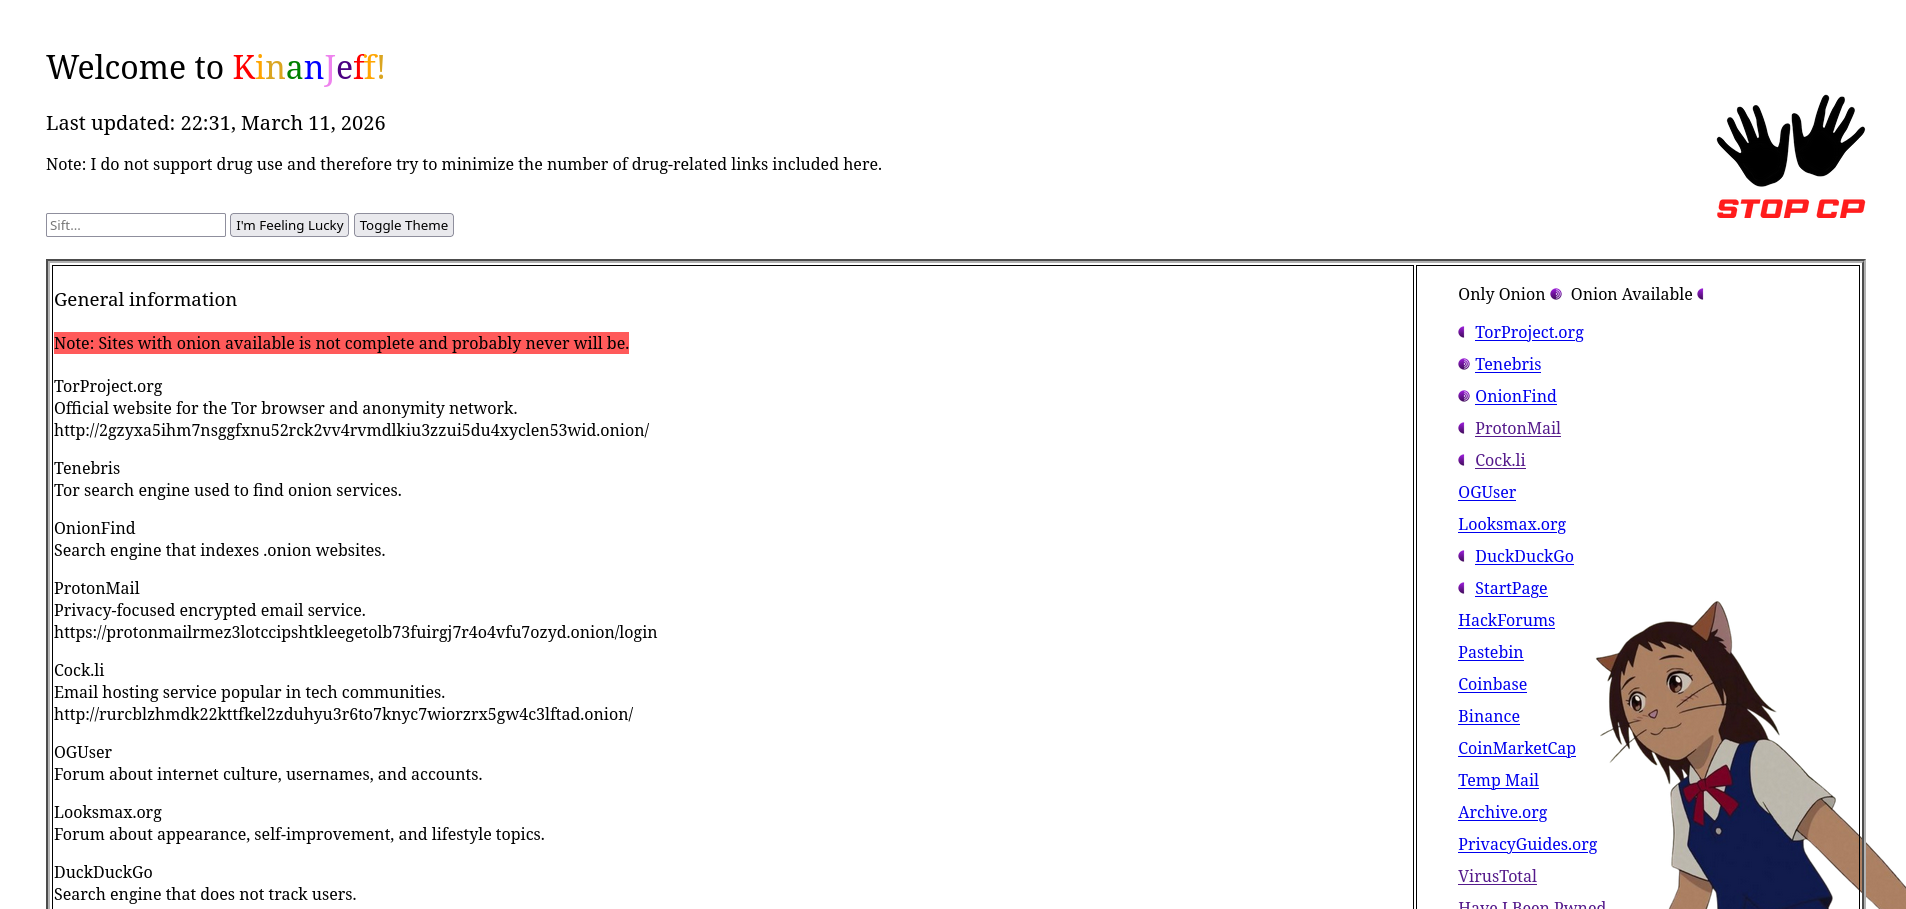
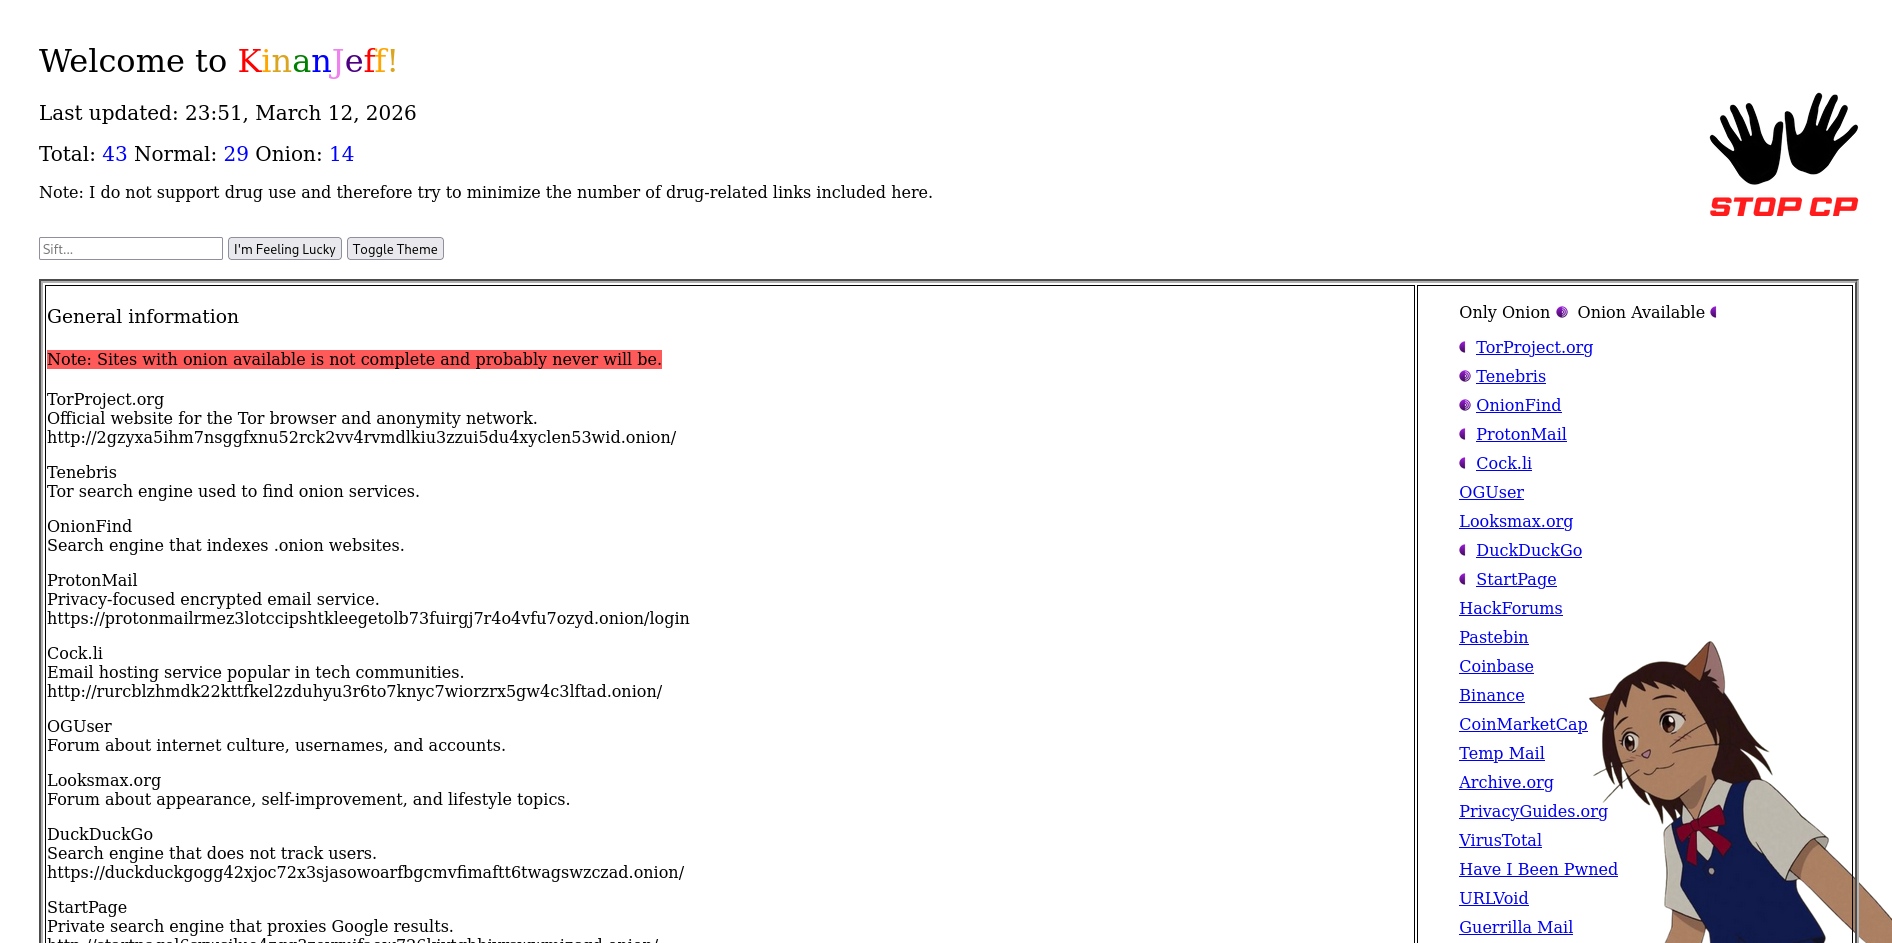
Added link counter
Added a link counter under the "Last updated" text. Also updated the screenshot to include this.

Changed region(s): [[0.0, 0.2464, 1.0, 1.0], [0.0, 0.0308, 0.4989, 0.2156], [0.9043, 0.0924, 0.9979, 0.2464]]

diff --git a/KinanJeff.html b/KinanJeff.html
@@ -10,7 +10,8 @@
     <div style="display: flex;">
         <div style="width: 100%;">
             <h1 style="font-weight: normal; margin-top: 0;">Welcome to <span id="Title"><span style="color: red;">K</span><span style="color: orange;">i</span><span style="color: goldenrod;">n</span><span style="color: green;">a</span><span style="color: blue;">n</span><span style="color: violet;">J</span><span style="color: indigo;">e</span><span style="color: red;">f</span><span style="color: orange;">f</span><span style="color: goldenrod;">!</span></span></h1>
-	        <h2 style="font-weight: normal; font-size: 20px;">Last updated: 23:21, March 12, 2026</h2>
+	        <h2 style="font-weight: normal; font-size: 20px;">Last updated: 23:51, March 12, 2026</h2>
+            <h2 style="font-weight: normal; font-size: 20px;">Total: <span id="totalLinks" style="color: blue;">0</span> Normal: <span id="normalLinks" style="color: blue;">0</span> Onion: <span id="onionLinks" style="color: blue;">0</span></h2>
             <p>Note: I do not support drug use and therefore try to minimize the number of drug-related links included here.</p>
             <br>
             <input id="search" placeholder="Sift...">
@@ -167,6 +168,7 @@
         document.querySelectorAll('a').forEach(link => {
             let intervalId;
             link.style.transition = 'color 0.3s linear';
+
             link.addEventListener('mouseover', () => {
                 intervalId = setInterval(() => {
                     const hue = Math.random() * 360;
@@ -178,6 +180,31 @@
                 link.style.color = '';
             });
         });
+        function countLinks() {
+            const links = document.querySelectorAll("a");
+            let total = 0;
+            let onion = 0;
+            let normal = 0;
+            links.forEach(link => {
+                const href = link.getAttribute("href");
+                if (!href) return;
+                total++;
+                if (href.includes(".onion")) {
+                    onion++;
+                } else if (href.startsWith("http")) {
+                    normal++;
+                }
+            });
+            if (document.getElementById("totalLinks"))
+                document.getElementById("totalLinks").textContent = total;
+
+            if (document.getElementById("normalLinks"))
+                document.getElementById("normalLinks").textContent = normal;
+
+            if (document.getElementById("onionLinks"))
+                document.getElementById("onionLinks").textContent = onion;
+        }
+        window.addEventListener("DOMContentLoaded", countLinks);
     </script>
 </body>
 </html>
